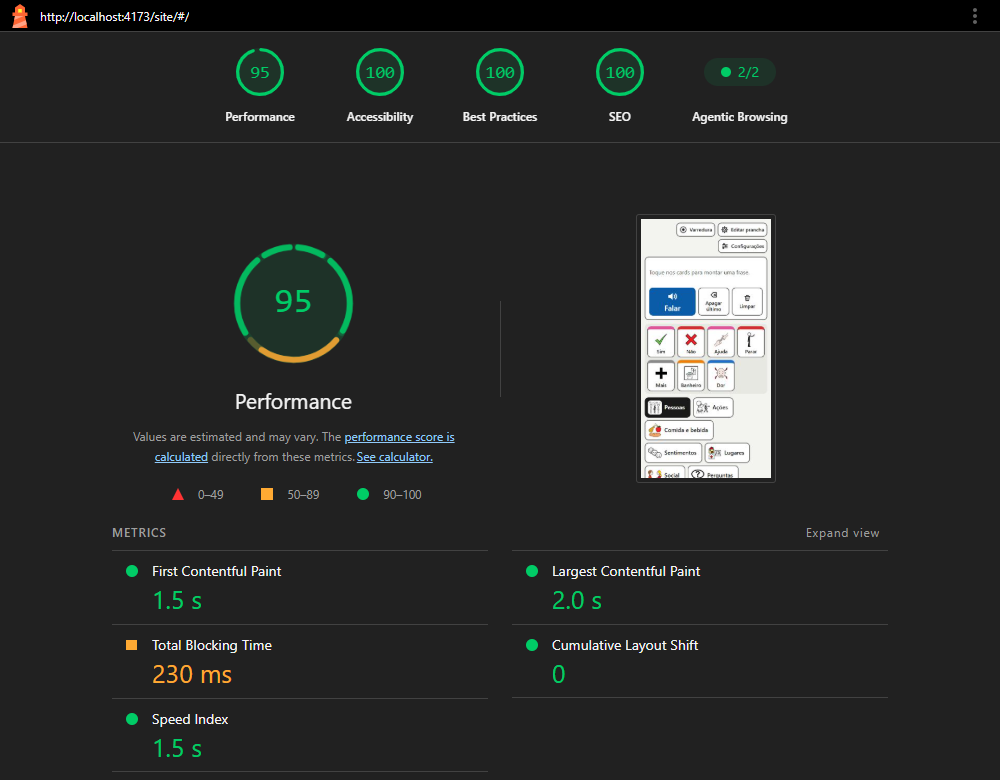
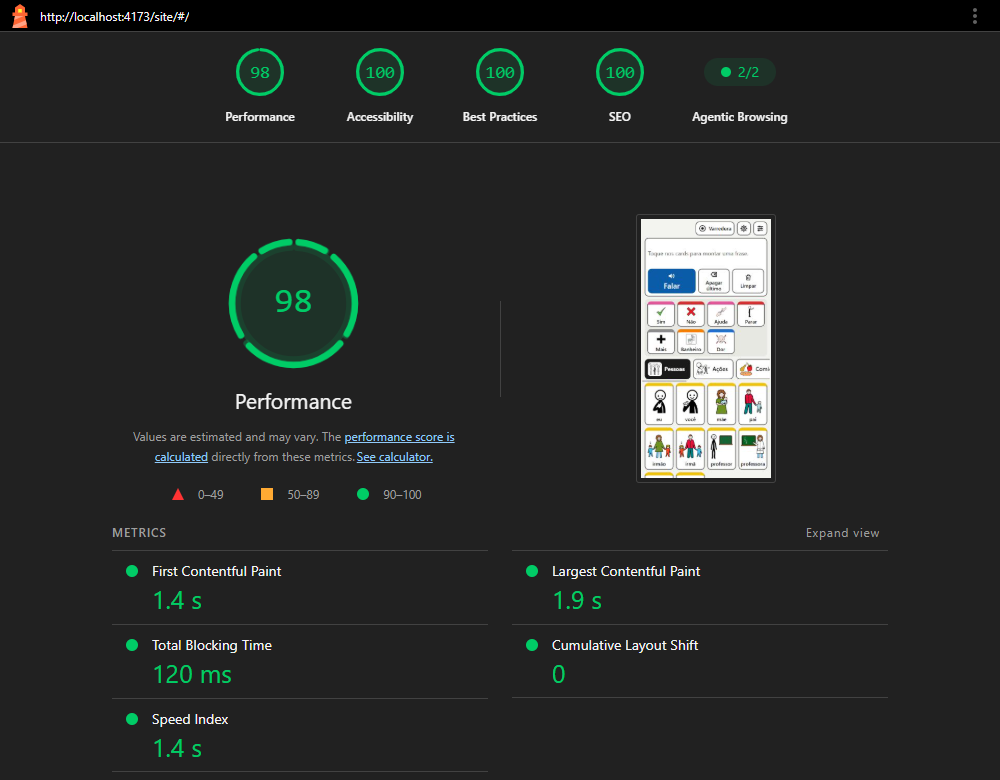
🐞 fix: Fix disposição pwa (#9)

diff --git a/src/components/SentenceBar.vue b/src/components/SentenceBar.vue
@@ -11,6 +11,7 @@ const settings = useSettingsStore()
 const { speak, isSupported } = useSpeech()
 
 const speakButtonRef = useTemplateRef<HTMLButtonElement>('speakButton')
+const itemsRef = useTemplateRef<HTMLOListElement>('items')
 const largeTextDialogRef = useTemplateRef<InstanceType<typeof LargeTextDialog>>('largeTextDialog')
 const largeText = ref('')
 const announcement = ref('')
@@ -27,6 +28,16 @@ watch(
     announcement.value = ''
     await nextTick()
     announcement.value = `Adicionado: ${last.label}`
+  },
+)
+
+// No celular a frase rola na horizontal: mantém a última palavra à vista
+watch(
+  () => sentence.items.length,
+  async () => {
+    await nextTick()
+    const items = itemsRef.value
+    if (items) items.scrollLeft = items.scrollWidth
   },
 )
 
@@ -47,7 +58,14 @@ function onSpeak() {
     <h2 id="sentence-bar-title" class="visually-hidden">Frase</h2>
 
     <div class="sentence-bar__phrase">
-      <ol v-if="!sentence.isEmpty" class="sentence-bar__items">
+      <!-- Focável: no celular a frase rola na horizontal, e pelo teclado se rola com as setas -->
+      <ol
+        v-if="!sentence.isEmpty"
+        ref="items"
+        class="sentence-bar__items"
+        tabindex="0"
+        aria-label="Frase montada"
+      >
         <li
           v-for="(card, index) in sentence.items"
           :key="index"
@@ -206,6 +224,50 @@ function onSpeak() {
   min-height: 4.5rem;
   padding-inline: var(--space-2);
   font-size: calc(1rem * var(--font-scale));
+}
+
+/* Celular: barra mais baixa e de altura estável. As palavras rolam na horizontal em vez de
+   quebrar linha, então a grade de cards não muda de lugar enquanto a frase cresce */
+@media (max-width: 40rem) {
+  .sentence-bar {
+    gap: var(--space-2);
+    padding: var(--space-2);
+  }
+
+  /* Altura de uma palavra (faixa, bordas e preenchimento + pictograma + uma linha de texto),
+     para a barra não crescer ao entrar a primeira palavra */
+  .sentence-bar__phrase {
+    /* min-width: 0 deixa a frase encolher até a largura da barra, senão ela não rola */
+    min-width: 0;
+    min-height: calc(3.5rem + 1.5rem * var(--font-scale));
+  }
+
+  .sentence-bar__items {
+    flex-wrap: nowrap;
+    min-width: 0;
+    overflow-x: auto;
+  }
+
+  .sentence-bar__item {
+    flex: none;
+    font-size: calc(1.125rem * var(--font-scale));
+  }
+
+  .sentence-bar__picto {
+    width: 2.25rem;
+  }
+
+  /* Botões mais baixos (ícone menor, menos preenchimento), sem passar dos 64 px mínimos */
+  .sentence-bar__speak,
+  .sentence-bar__secondary {
+    min-height: 4rem;
+    padding-block: var(--space-1);
+  }
+
+  .sentence-bar__speak .btn__icon {
+    width: 1em;
+    height: 1em;
+  }
 }
 
 /* Barra estreita (celular ou texto grande): ícone acima do texto em todos os botões,

diff --git a/src/components/CategoryTabs.vue b/src/components/CategoryTabs.vue
@@ -1,5 +1,5 @@
 <script setup lang="ts">
-import { useTemplateRef } from 'vue'
+import { nextTick, useTemplateRef, watch } from 'vue'
 import type { Category } from '../types'
 import PictogramImage from './PictogramImage.vue'
 
@@ -7,6 +7,8 @@ const props = defineProps<{
   categories: Category[]
   activeId: string | null
   panelId: string
+  // Em telas estreitas, as abas ficam em uma linha só, com rolagem lateral
+  scrollable?: boolean
 }>()
 const emit = defineEmits<{ select: [id: string] }>()
 
@@ -15,6 +17,19 @@ const tablistRef = useTemplateRef<HTMLDivElement>('tablist')
 function tabId(categoryId: string): string {
   return `aba-${categoryId}`
 }
+
+// Com rolagem lateral, a aba escolhida pode estar cortada na borda: rola até ela aparecer inteira
+watch(
+  () => props.activeId,
+  async (id) => {
+    const index = props.categories.findIndex((category) => category.id === id)
+    if (index < 0) return
+    await nextTick()
+    const tab = tablistRef.value?.querySelectorAll<HTMLElement>('[role="tab"]')[index]
+    // O jsdom dos testes não implementa scrollIntoView
+    tab?.scrollIntoView?.({ block: 'nearest', inline: 'nearest' })
+  },
+)
 
 // Setas esquerda/direita, Home e End trocam de aba (padrão ARIA de abas, com ativação automática)
 function onKeydown(event: KeyboardEvent) {
@@ -58,6 +73,7 @@ function onKeydown(event: KeyboardEvent) {
       role="tablist"
       aria-label="Categorias"
       class="category-tabs__list"
+      :class="{ 'category-tabs__list--scroll': scrollable }"
       data-scan-group="categorias"
       tabindex="-1"
       @keydown="onKeydown"
@@ -134,5 +150,23 @@ function onKeydown(event: KeyboardEvent) {
   background: var(--color-selected);
   color: var(--color-selected-text);
   font-weight: 700;
+}
+
+/* Celular: em várias linhas, as abas empurravam a grade de cards para fora da tela.
+   A aba cortada na borda mostra que dá para rolar; o foco (Tab, setas) rola até a aba sozinho.
+   O preenchimento, compensado pela margem negativa, evita cortar o contorno de foco.
+   Com a varredura ligada, as abas voltam a quebrar linha (o halo do destaque seria cortado). */
+@media (max-width: 40rem) {
+  .category-tabs__list--scroll {
+    flex-wrap: nowrap;
+    margin: -0.5rem;
+    padding: 0.5rem;
+    overflow-x: auto;
+    overscroll-behavior-x: contain;
+  }
+
+  .category-tabs__list--scroll .category-tabs__tab {
+    flex: none;
+  }
 }
 </style>

diff --git a/src/views/BoardView.vue b/src/views/BoardView.vue
@@ -77,7 +77,7 @@ watch(
           />
           <circle cx="12" cy="12" r="7" fill="none" stroke="currentColor" stroke-width="2" />
         </svg>
-        Editar prancha
+        <span class="board__tool-label">Editar prancha</span>
       </HoldButton>
       <HoldButton class="board__tool" @complete="router.push('/configuracoes')">
         <svg class="btn__icon" viewBox="0 0 24 24" aria-hidden="true" focusable="false">
@@ -92,7 +92,7 @@ watch(
           <circle cx="15" cy="12" r="2.75" fill="currentColor" />
           <circle cx="7" cy="18" r="2.75" fill="currentColor" />
         </svg>
-        Configurações
+        <span class="board__tool-label">Configurações</span>
       </HoldButton>
     </div>
 
@@ -109,6 +109,7 @@ watch(
       :categories="boardStore.board.categories"
       :active-id="boardStore.activeCategory?.id ?? null"
       panel-id="painel-categoria"
+      :scrollable="!settings.scanning.enabled"
       @select="boardStore.selectCategory"
     >
       <CardGrid
@@ -155,5 +156,26 @@ watch(
   border-color: var(--color-selected);
   background: var(--color-selected);
   color: var(--color-selected-text);
+}
+
+/* Celular: menos espaço entre as regiões, para a grade de cards aparecer sem rolar a tela */
+@media (max-width: 40rem) {
+  .board {
+    gap: var(--space-2);
+    padding-block: var(--space-2);
+  }
+}
+
+/* Tela estreita: os botões do parceiro ficam só com o ícone, para a barra caber em uma linha.
+   O texto sai da tela, mas continua sendo o nome acessível do botão */
+@media (max-width: 30rem) {
+  .board__tool-label {
+    position: absolute;
+    width: 1px;
+    height: 1px;
+    overflow: hidden;
+    clip: rect(0 0 0 0);
+    white-space: nowrap;
+  }
 }
 </style>

diff --git a/tests/BoardView.spec.ts b/tests/BoardView.spec.ts
@@ -118,6 +118,29 @@ describe('BoardView', () => {
     expect(wrapper.find('[role="tabpanel"]').attributes('aria-labelledby')).toBe('aba-lugares')
   })
 
+  it('abas com rolagem lateral no celular, menos com a varredura ligada', async () => {
+    const tablist = () => wrapper.find('[role="tablist"]')
+    expect(tablist().classes()).toContain('category-tabs__list--scroll')
+
+    // O halo do destaque da varredura seria cortado pela rolagem: as abas voltam a quebrar linha
+    useSettingsStore().scanning.enabled = true
+    await nextTick()
+    expect(tablist().classes()).not.toContain('category-tabs__list--scroll')
+    useSettingsStore().scanning.enabled = false
+  })
+
+  it('a frase montada recebe foco, para rolar pelo teclado quando não cabe na barra', async () => {
+    await findButton(wrapper, 'eu').trigger('click')
+    const phrase = wrapper.find('.sentence-bar__items')
+    expect(phrase.attributes('tabindex')).toBe('0')
+    expect(phrase.attributes('aria-label')).toBe('Frase montada')
+  })
+
+  it('botões do parceiro mantêm o texto como nome, mesmo quando só o ícone aparece', () => {
+    const labels = wrapper.findAll('.board__tool-label').map((label) => label.text())
+    expect(labels).toEqual(['Editar prancha', 'Configurações'])
+  })
+
   it('com os rótulos ocultos, o card mostra só o pictograma, mas continua com o nome', async () => {
     useSettingsStore().showLabels = false
     await nextTick()

diff --git a/src/components/CommCard.vue b/src/components/CommCard.vue
@@ -49,7 +49,8 @@ const hideLabel = computed(
   align-items: center;
   min-width: 0;
   min-height: var(--card-min-size);
-  padding: var(--space-2) 0.125rem;
+  /* As frases rápidas usam um preenchimento menor no celular */
+  padding: var(--card-padding-block, var(--space-2)) 0.125rem;
   /* Faixa superior com a cor da classe gramatical */
   border: var(--border-width) solid var(--color-border);
   border-top: var(--stripe-width) solid var(--word-color);

diff --git a/src/components/QuickPhrases.vue b/src/components/QuickPhrases.vue
@@ -28,4 +28,13 @@ const emit = defineEmits<{ select: [card: Card] }>()
   border-radius: var(--radius);
   background: var(--color-surface-alt);
 }
+
+/* Celular: pictogramas e preenchimento menores, para as duas linhas de frases rápidas
+   ocuparem menos altura */
+@media (max-width: 40rem) {
+  .quick-phrases {
+    --picto-size: 2.25rem;
+    --card-padding-block: var(--space-1);
+  }
+}
 </style>

diff --git a/README.md b/README.md
@@ -39,6 +39,9 @@ _Resumo das sessões: preencher depois das sessões._
 - A cor da borda indica a classe da palavra (Chave de Fitzgerald adaptada): pessoa em amarelo, ação em verde, coisa em laranja, descrição em azul, social em rosa, pergunta em roxo, negação em vermelho.
 - A voz é escolhida automaticamente, dando preferência a uma **voz em português do Brasil instalada no aparelho**, que funciona offline.
 - Se o navegador não tiver síntese de voz, o app avisa e oferece **Mostrar frase**, que exibe a frase em texto grande para o parceiro ler.
+- **No celular em retrato,** a grade de cards aparece sem precisar rolar a tela: as categorias ficam em uma faixa com rolagem lateral, e a frase rola na horizontal em vez de quebrar linha. Assim, os cards não mudam de lugar enquanto a frase cresce.
+
+<img src="docs/prints/prancha-celular.png" alt="Prancha no celular com a frase &quot;eu quero água&quot;" width="300">
 
 ### Modo de varredura (acessibilidade motora)
 
@@ -96,7 +99,7 @@ Lighthouse 13.5, emulação de celular, build de produção, em 30/09/2026:
 
 | Tela | Acessibilidade | Desempenho | Boas práticas | SEO |
 | :--- | :---: | :---: | :---: | :---: |
-| Prancha | **100** | 95 | 100 | 100 |
+| Prancha | **100** | 98 | 100 | 100 |
 | Editor | **100** | – | – | – |
 | Configurações | **100** | – | – | – |
 | Sobre | **100** | – | – | – |
